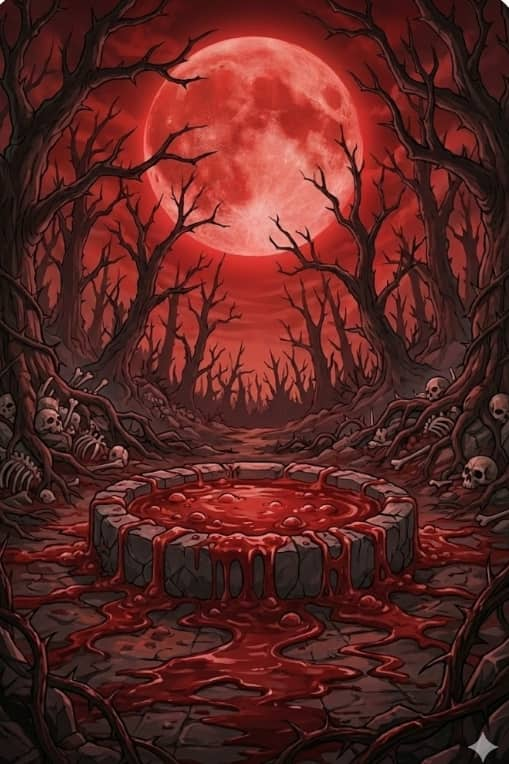
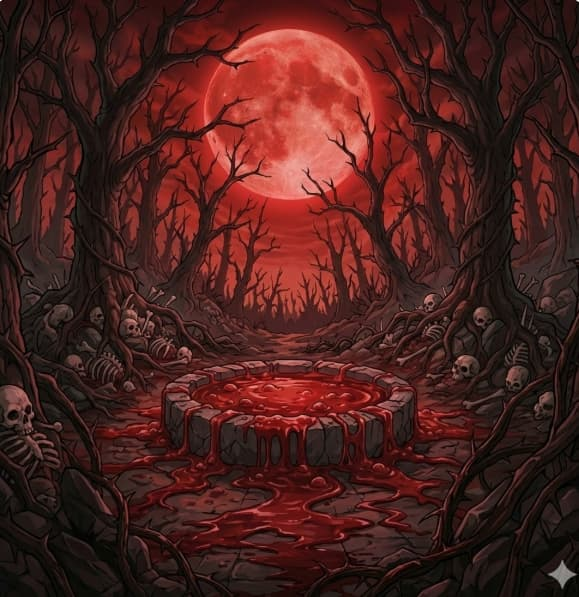
compress images

diff --git a/src/app/components/MainContent.js b/src/app/components/MainContent.js
@@ -99,7 +99,7 @@ export default function MainContent() {
       />
       
       {/* Overlay - Đã làm mờ lớp này đi để không bị đen quá */}
-      <div className="absolute inset-0 bg-black/30 z-10 pointer-events-none" />
+      <div className="absolute inset-0 bg-black/50 z-10 pointer-events-none" />
 
       {/* Main Content Box */}
       <div className="w-full max-w-md flex flex-col items-center gap-6 relative z-20">
